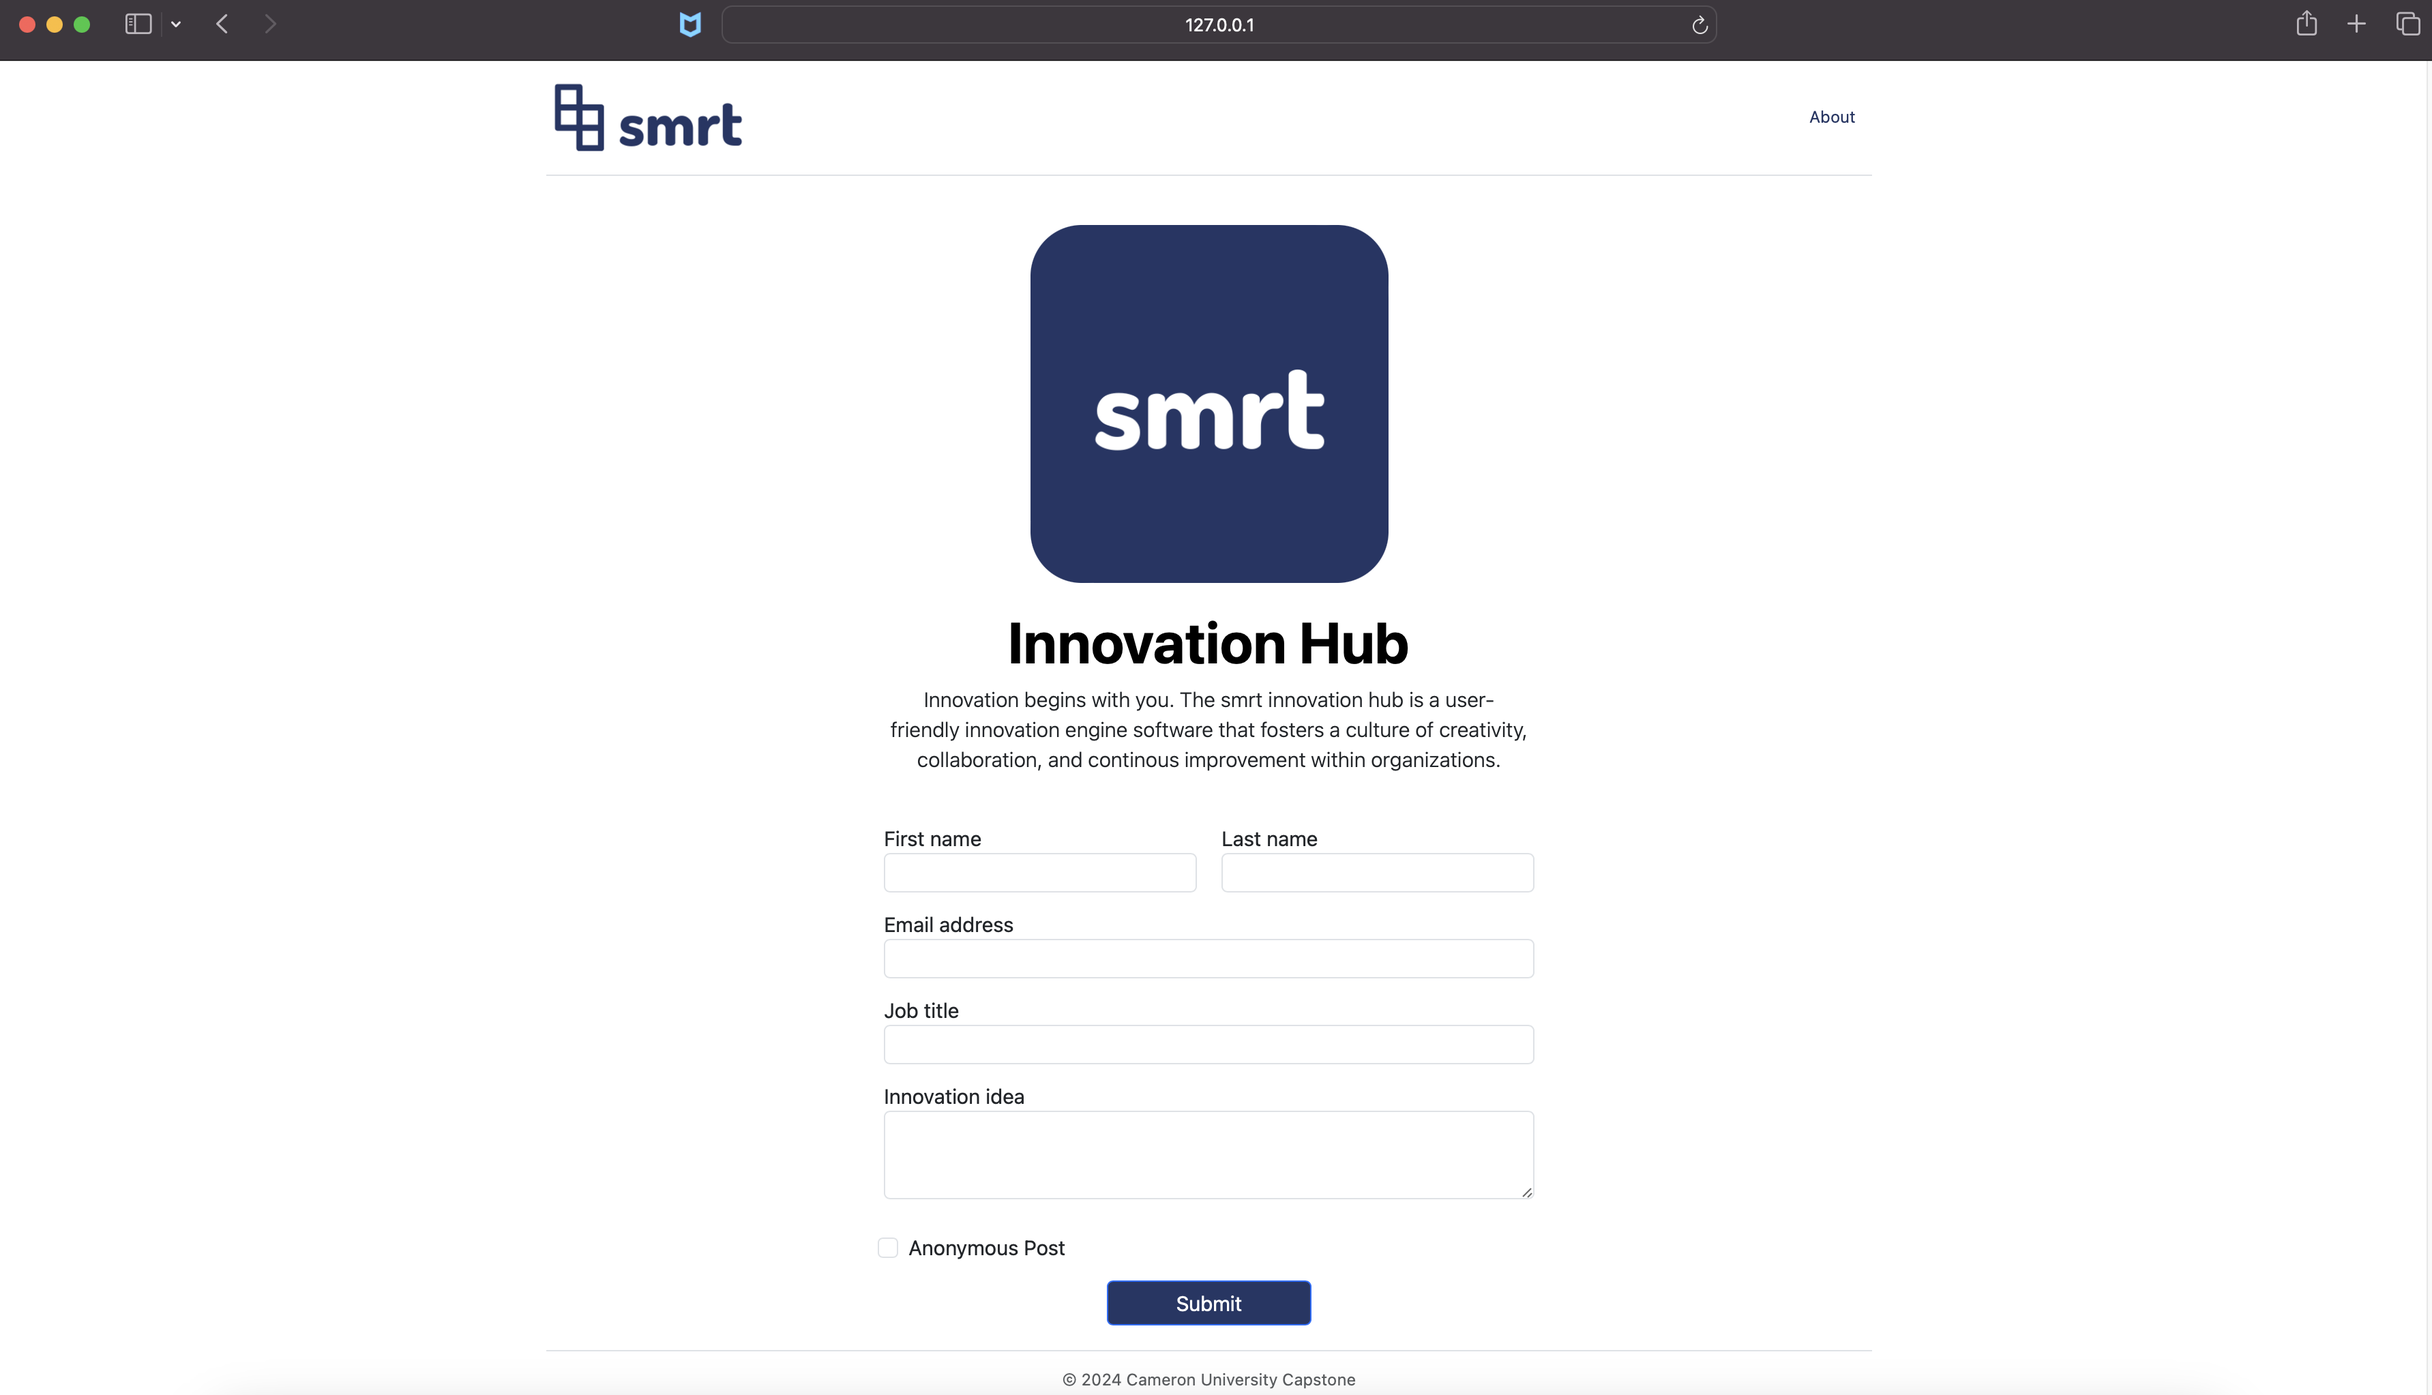
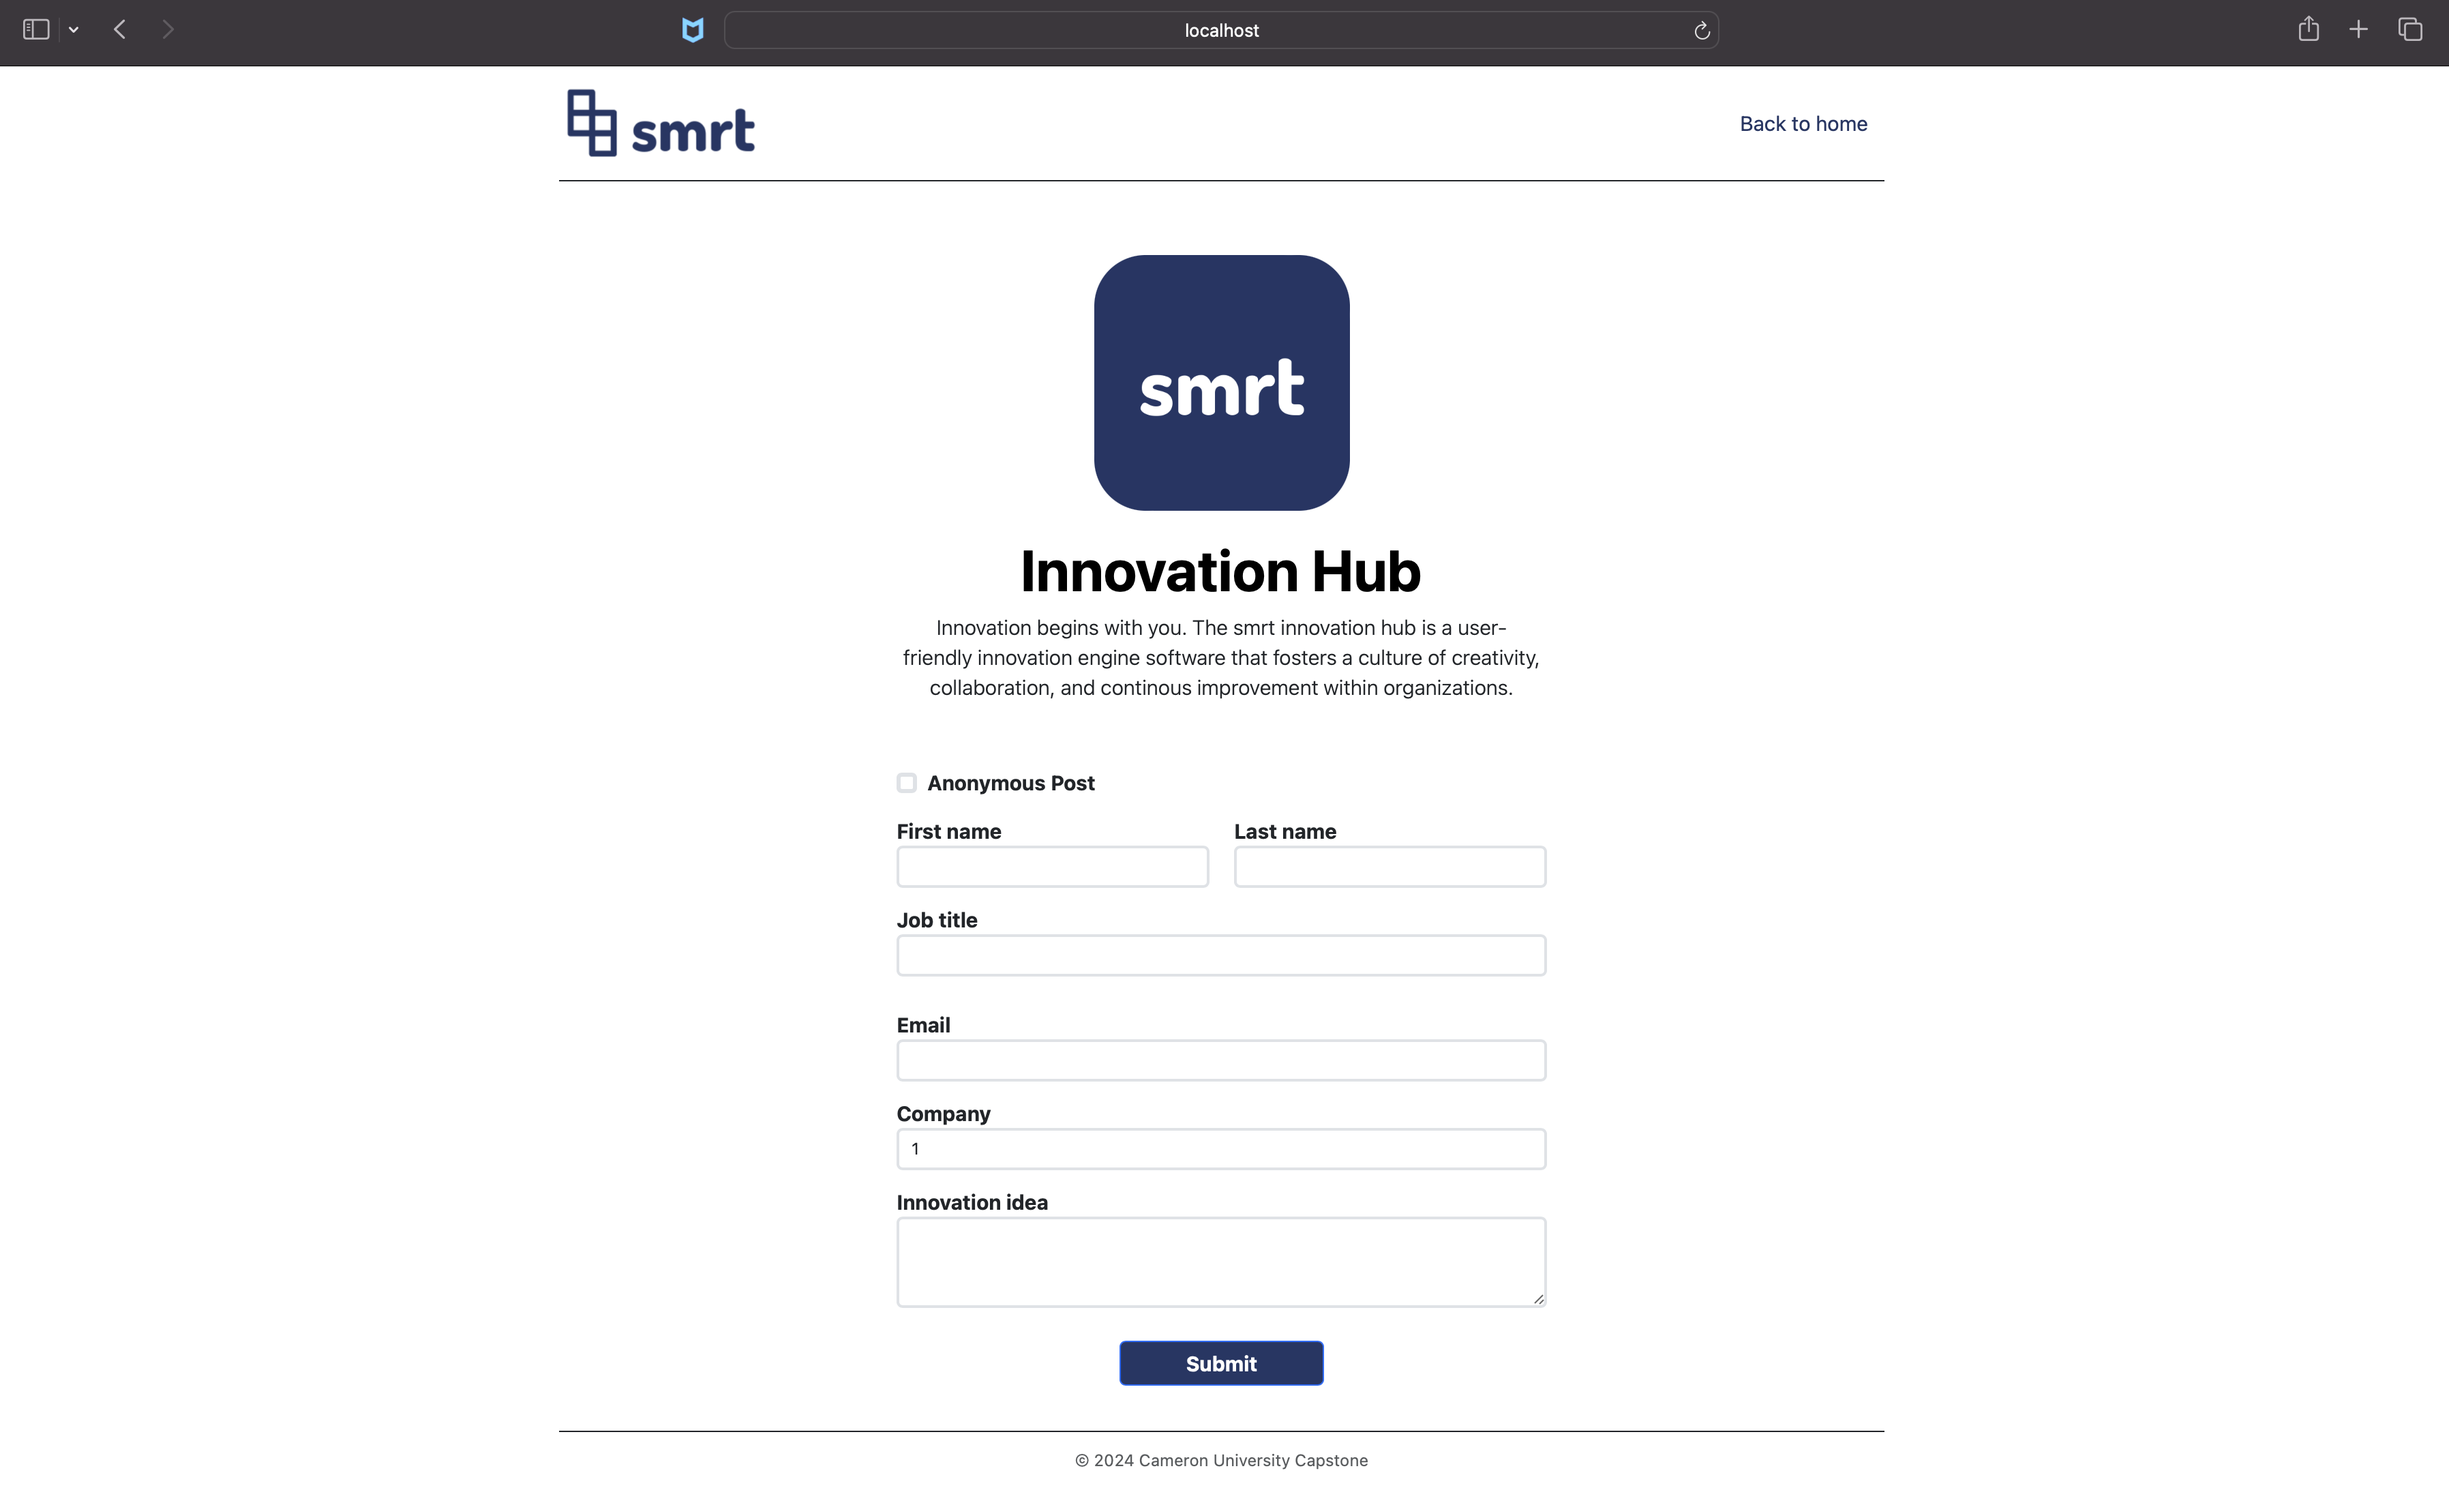
added admin login and more UI changes

diff --git a/frontend/admin_login.php b/frontend/admin_login.php
@@ -1,0 +1,81 @@
+<!DOCTYPE html>
+<html lang="en">
+<head>
+    <meta charset="UTF-8">
+    <meta http-equiv="X-UA-Compatible" content="IE=edge">
+    <meta name="viewport" content="width=device-width, initial-scale=1.0">
+    <link href="https://cdn.jsdelivr.net/npm/bootstrap@5.3.0-alpha1/dist/css/bootstrap.min.css" rel="stylesheet">
+    <link rel="stylesheet" href="style.css">
+    <title>Login</title>
+    <style>
+        .login-container {
+          max-width: 400px;
+          margin: 100px auto;
+          padding: 20px;
+          background-color: #fff;
+          border-radius: 5px;
+          box-shadow: 0px 0px 10px 0px rgba(0,0,0,0.1);
+        }
+      </style>
+</head>
+<body class="d-flex flex-column min-vh-100">
+    <div class="container">
+        <header class="d-flex flex-wrap justify-content-center py-3 mb-4 border-bottom border-dark">
+            <a href="about.php" class="d-flex align-items-center mb-md-0 me-md-auto link-body-emphasis text-decoration-none">
+                <img class="innovation-logo" src="../innovationImages/smrt_logo_light.png" alt="">
+            </a>
+            <ul class="nav align-items-center">
+                <li class="nav-item fs-5"><a href="about.php" class="color nav-link" draggable="true">Back to home</a></li>
+            </ul> 
+        </header>
+    </div>
+    <div class="container fs-5">
+        <div class="login-container">
+          <h2 class="mb-4">Admin Login</h2>
+          <form id="loginForm">
+            <div class="form-group mb-3">
+              <label for="username">Username</label>
+              <input type="text" class="form-control border-3" id="username" name="username" required>
+            </div>
+            <div class="form-group mb-3">
+              <label for="password">Password</label>
+              <input type="password" class="form-control border-3" id="password" name="password" required>
+            </div>
+            <div class="form-group form-check mb-3">
+              <input type="checkbox" class="form-check-input border-4" id="rememberMe">
+              <label class="form-check-label" for="rememberMe">Remember me</label>
+            </div>
+            <div class="text-center">
+                <button name="submit" type="login" class="button-color button-width fs-5 btn btn-primary fw-bold">Login</button>
+            </div>
+          </form>
+        </div>
+      </div>
+      
+      <!-- Bootstrap JS and jQuery (optional) -->
+      <script src="https://code.jquery.com/jquery-3.5.1.slim.min.js"></script>
+      <script src="https://cdn.jsdelivr.net/npm/@popperjs/core@2.5.4/dist/umd/popper.min.js"></script>
+      <script src="https://stackpath.bootstrapcdn.com/bootstrap/4.5.2/js/bootstrap.min.js"></script>
+      
+      <!-- Custom JavaScript -->
+      <script>
+        document.getElementById('loginForm').addEventListener('submit', function(event) {
+          event.preventDefault(); // Prevent form submission
+          var username = document.getElementById('username').value;
+          var password = document.getElementById('password').value;
+          var rememberMe = document.getElementById('rememberMe').checked;
+          // Perform login logic here (e.g., send data to server)
+          console.log("Username:", username);
+          console.log("Password:", password);
+          console.log("Remember Me:", rememberMe);
+          // Reset form fields
+          document.getElementById('loginForm').reset();
+        });
+      </script>
+    <div class="container mt-auto">
+        <footer class="py-3 my-4 border-top border-dark ">
+            <p class="text-center text-body-secondary">© 2024 Cameron University Capstone</p>
+        </footer>
+    </div>
+</body>
+</html>

diff --git a/frontend/innovation_hub.php b/frontend/innovation_hub.php
@@ -11,23 +11,23 @@
     <link href="https://cdn.jsdelivr.net/npm/bootstrap@5.3.0-alpha1/dist/css/bootstrap.min.css" rel="stylesheet">
     <link href="style.css" rel="stylesheet">
 </head>
-<body>
+<body class="d-flex flex-column min-vh-100">
 
 <div class="container">
     <header class="d-flex flex-wrap justify-content-center py-3 mb-4 border-bottom border-dark">
-        <a href="" class="d-flex align-items-center mb-md-0 me-md-auto link-body-emphasis text-decoration-none">
-            <img class="innovation-logo" src="../innovationImages/Screenshot%202024-02-20%20at%208.29.06%E2%80%AFPM.png"
+        <a href="about.php" class="d-flex align-items-center mb-md-0 me-md-auto link-body-emphasis text-decoration-none">
+            <img class="innovation-logo" src="../innovationImages/smrt_logo_light.png"
                  alt="">
         </a>
         <ul class="nav align-items-center">
-            <li class="nav-item fs-5"><a href="about.php" class="color nav-link" draggable="true">About</a></li>
-        </ul>
+            <li class="nav-item fs-5"><a href="about.php" class="color nav-link" draggable="true">Back to home</a></li>
+        </ul> 
     </header>
 </div>
 
 <div class="container">
     <div class="px-4 my-5 text-center">
-        <img class="custom-rounded img-fluid d-block mx-auto mb-4" src="../innovationImages/smrt%20logo%20dark.png"
+        <img class="custom-rounded img-fluid d-block mx-auto mb-4" src="../innovationImages/smrt_logo_dark.png"
              alt="" width="250" height="250">
         <h1 class="display-4 fw-bold text-body-emphasis">Innovation Hub</h1>
         <div class="col-lg-6 mx-auto">
@@ -67,7 +67,7 @@
         </div>
 
         <div class="row justify-content-center">
-            <div class="mx-auto col-md-6 fs-5 form-group py-3">
+            <div class="mx-auto col-md-6 fs-5 form-group mb-3">
                 <label class="fw-bold" for="exampleFormControlInput1">Email</label>
                 <input name="email" type="text" class="form-control border-3" id="exampleFormControlInput1">
             </div>
@@ -107,7 +107,7 @@
 
 </div>
 
-<div class="container">
+<div class="container mt-auto">
     <footer class="py-3 my-4 border-top border-dark">
         <p class="text-center text-body-secondary">© 2024 Cameron University Capstone</p>
     </footer>

diff --git a/frontend/admin.php b/frontend/admin.php
@@ -8,19 +8,23 @@
     <link href="style.css" rel="stylesheet">
     <title>Admin</title>
 </head>
-<body>
+<body class="d-flex flex-column min-vh-100">
     <div class="container">
         <header class="d-flex flex-wrap justify-content-center py-3 mb-4 border-bottom border-dark">
             <div class="d-flex align-items-center mb-md-0 me-md-auto link-body-emphasis text-decoration-none">
-                <img class="innovation-logo" src="../innovationImages/Screenshot%202024-02-20%20at%208.29.06%E2%80%AFPM.png" alt="">
+                <img class="innovation-logo" src="../innovationImages/smrt_logo_light.png" alt="">
             </div>
-            <div class="text-center justify-content-center border-dark">
-                <h1 class="display-4 fw-bold text-body-emphasis">Admin Page</h1>
-              </div>
+            <ul class="nav align-items-center">
+                <li class="nav-item fs-5"><a href="" class="color nav-link" draggable="true">Logout</a></li>
+            </ul>
+            
         </header>
     </div>
 
-    <div class="container fs-4 mt-5">
+    <div class="container fs-4 ">
+        <div class="text-center justify-content-center border-dark">
+          <h1 class="display-4 fw-bold text-body-emphasis">Admin Page</h1>
+        </div>
         <h2 class="mb-4 display-5 fw-bold">User Posts</h2>
         <div class="mb-3">
           <label for="filterDate">Filter by Date:</label>
@@ -96,7 +100,7 @@
     
       
 
-    <div class="container">
+    <div class="container mt-auto">
         <footer class="py-3 my-4 border-top border-dark">
             <p class="text-center text-body-secondary">© 2024 Cameron University Capstone</p>
         </footer>

diff --git a/frontend/about.php b/frontend/about.php
@@ -8,12 +8,18 @@
     <link rel="stylesheet" href="style.css">
     <title>About</title>
 </head>
-<body>
+<body class="d-flex flex-column min-vh-100">
     <div class="container">
         <header class="d-flex flex-wrap justify-content-center py-3 mb-4 border-bottom border-dark">
-            <a href="innovation_hub.php" class="d-flex align-items-center mb-md-0 me-md-auto link-body-emphasis text-decoration-none">
-                <img class="innovation-logo" src="../innovationImages/Screenshot%202024-02-20%20at%208.29.06%E2%80%AFPM.png" alt="">
-            </a>
+            <div class="d-flex align-items-center mb-md-0 me-md-auto link-body-emphasis text-decoration-none">
+                <img class="innovation-logo" src="../innovationImages/smrt_logo_light.png" alt="">
+            </div>
+            <ul class="nav align-items-center">
+                <li class="nav-item fs-5"><a href="innovation_hub.php" class="color nav-link" draggable="true">Idea Submission</a></li>
+            </ul> 
+            <ul class="nav align-items-center">
+                <li class="nav-item fs-5"><a href="admin_login.php" class="color nav-link" draggable="true">Admin Portal</a></li>
+            </ul>
         </header>
     </div>
 
@@ -72,7 +78,7 @@
           
     </div>
 
-    <div class="container">
+    <div class="container mt-auto">
         <footer class="py-3 my-4 border-top border-dark">
             <p class="text-center text-body-secondary">© 2024 Cameron University Capstone</p>
         </footer>
